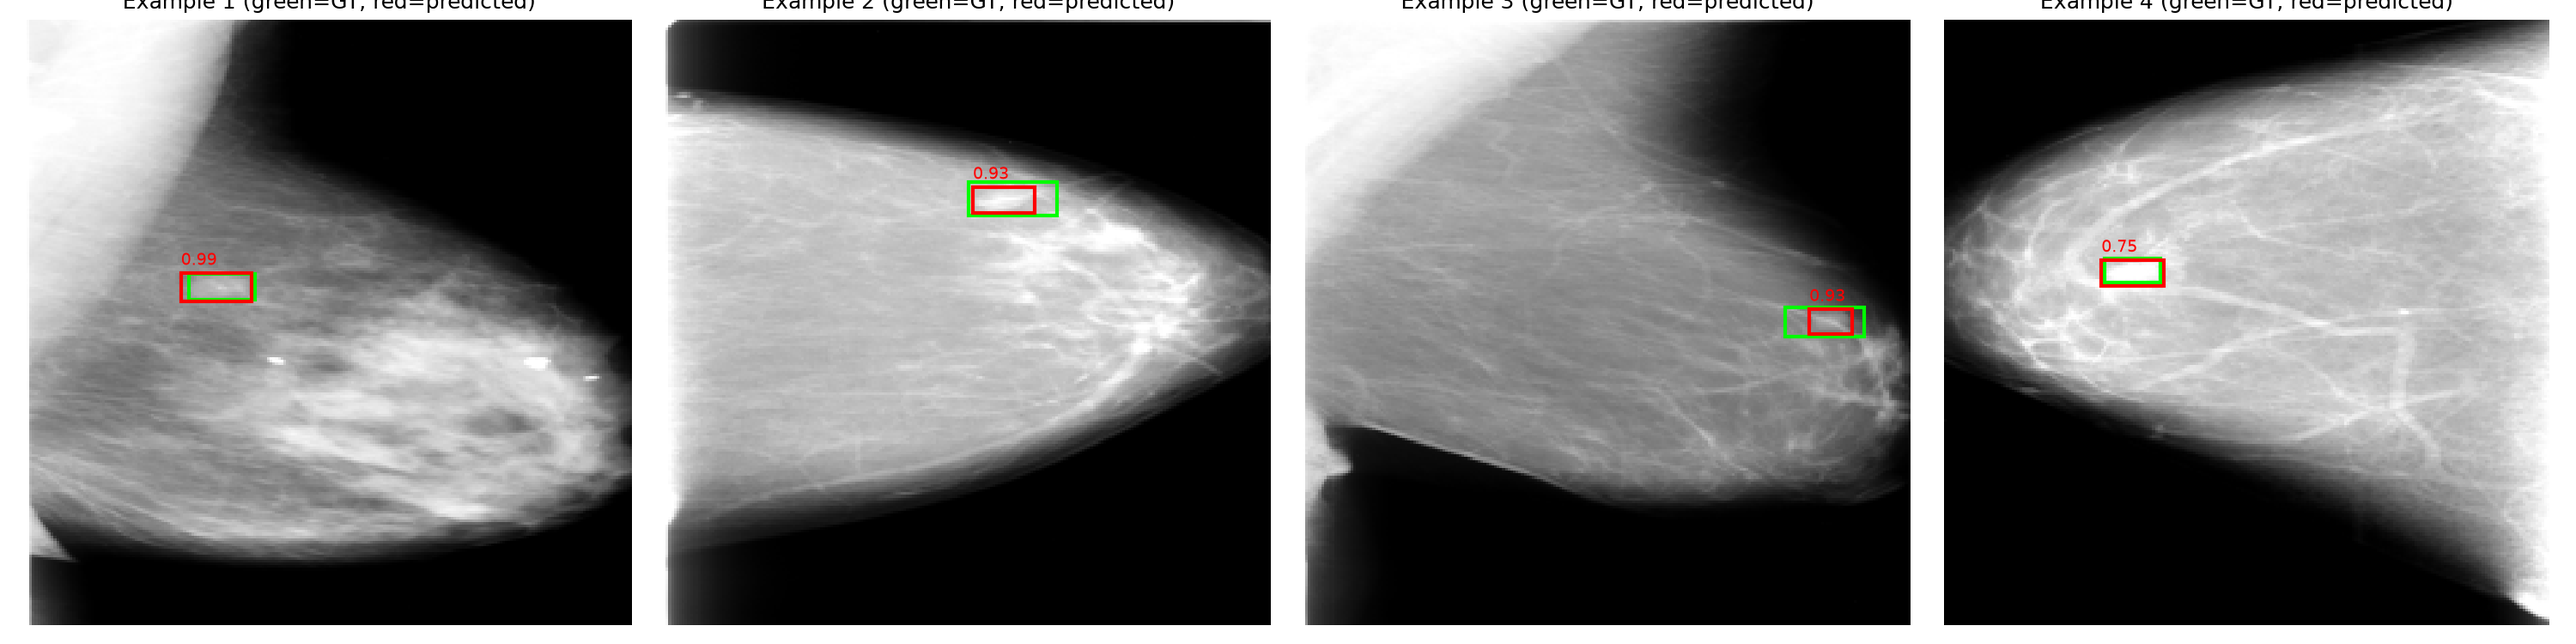
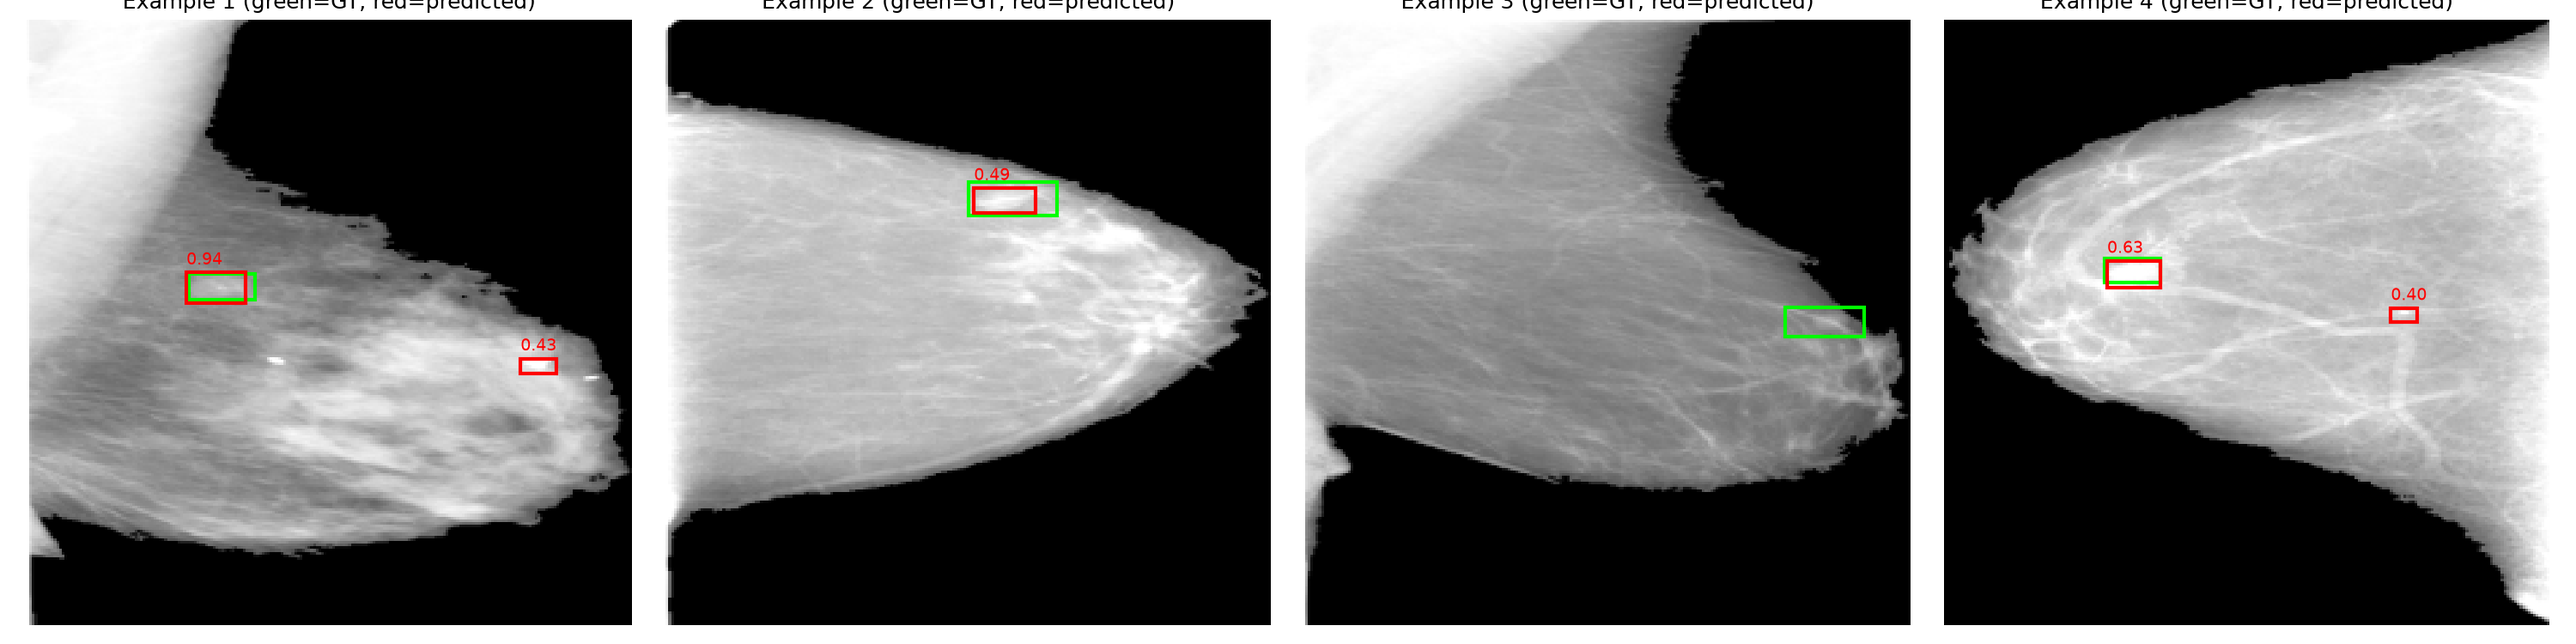
evaluate_ensemble

diff --git a/scripts/evaluate_ensemble.py b/scripts/evaluate_ensemble.py
@@ -1,0 +1,187 @@
+"""
+Evaluates an ensemble of lesion_crop + multimodal (now your two strongest
+classifiers) on the locked test set.
+
+This is a STANDALONE script, not a patch to run_phase14_final_evaluation.py,
+because the two models don't cover the same test images: multimodal scores
+all 526 test rows, but lesion_crop only covers the 512 that have a valid
+bounding box. The existing ensemble code in run_phase14_final_evaluation.py
+assumes identical row order/count (true for baseline+multimodal, since both
+use the full test_df) and would silently misalign if reused here. This
+script instead merges the two models' predictions on `image_id`, so only
+the correctly-matched, genuinely shared 512 images are combined.
+
+Threshold selection follows the same rule as everywhere else in this
+project: chosen on the VALIDATION set only, then applied once here to the
+test set.
+
+Usage:
+    python scripts/evaluate_ensemble.py \\
+        --lesion-crop-checkpoint models\\lesion_crop_resnet50_20260919_095210.pt \\
+        --multimodal-checkpoint models\\multimodal_resnet50_20260913_192536.pt \\
+        --raw-images-dir "C:\\...\\Datasets\\jpeg" \\
+        --i-understand-this-locks-the-test-set
+"""
+
+import os
+import sys
+import json
+import argparse
+
+import numpy as np
+import pandas as pd
+import torch
+from torch.utils.data import DataLoader
+
+sys.path.insert(0, os.path.join(os.path.dirname(__file__), ".."))
+sys.path.insert(0, os.path.dirname(__file__))
+
+from src.utils.config import load_config
+from src.utils.metrics import compute_classification_metrics, format_metrics_report, plot_confusion_matrix
+from src.utils.stats import select_threshold_for_target_sensitivity, roc_auc_score
+from src.data.crop_dataset import LesionCropDataset
+from src.data.multimodal_dataset import MultimodalDataset
+from src.data.tabular_preprocessing import TabularPreprocessor
+from src.models.classifier import build_classifier
+from src.models.multimodal_model import build_multimodal_model
+from run_phase14_final_evaluation import find_best_checkpoint, run_classifier_inference, bootstrap_ci
+
+
+def get_lesion_crop_predictions(checkpoint_path, bbox_df, device):
+    checkpoint = torch.load(checkpoint_path, map_location=device, weights_only=False)
+    model = build_classifier(checkpoint["config"]).to(device)
+    model.load_state_dict(checkpoint["model_state_dict"])
+    dataset = LesionCropDataset(bbox_df, checkpoint["config"])
+    # LesionCropDataset filters internally -- get the image_ids it ACTUALLY
+    # kept, in the same order, so predictions can be merged correctly.
+    image_ids = dataset.df["image_id"].values
+    loader = DataLoader(dataset, batch_size=16, shuffle=False)
+    y_true, y_prob = run_classifier_inference(model, loader, device, multimodal=False)
+    return pd.DataFrame({"image_id": image_ids, "y_true": y_true, "lesion_crop_prob": y_prob})
+
+
+def get_multimodal_predictions(checkpoint_path, df, train_df, device):
+    checkpoint = torch.load(checkpoint_path, map_location=device, weights_only=False)
+    cat_cols = checkpoint.get("tabular_categorical_cols", [])
+    num_cols = checkpoint.get("tabular_numeric_cols", [])
+    tabular_pp = TabularPreprocessor(cat_cols, num_cols)
+    tabular_pp.fit(train_df)
+    model = build_multimodal_model(checkpoint["config"], tabular_input_dim=tabular_pp.output_dim).to(device)
+    model.load_state_dict(checkpoint["model_state_dict"])
+    dataset = MultimodalDataset(df, checkpoint["config"], tabular_pp)
+    image_ids = dataset.df["image_id"].values
+    loader = DataLoader(dataset, batch_size=16, shuffle=False)
+    y_true, y_prob = run_classifier_inference(model, loader, device, multimodal=True)
+    return pd.DataFrame({"image_id": image_ids, "y_true_check": y_true, "multimodal_prob": y_prob})
+
+
+def build_ensemble_predictions(lesion_crop_ckpt, multimodal_ckpt, split_df, train_df, bbox_df, device):
+    """Returns (image_ids, y_true, ensemble_prob) merged and aligned by image_id."""
+    lc = get_lesion_crop_predictions(lesion_crop_ckpt, bbox_df, device)
+    mm = get_multimodal_predictions(multimodal_ckpt, split_df, train_df, device)
+
+    merged = lc.merge(mm, on="image_id", how="inner")
+    # Sanity check: the two datasets' own label encodings must agree on
+    # the images they share -- if not, something upstream disagrees about
+    # ground truth and averaging their probabilities would be meaningless.
+    mismatches = (merged["y_true"] != merged["y_true_check"]).sum()
+    if mismatches > 0:
+        raise ValueError(f"{mismatches} images have disagreeing ground-truth labels between "
+                          f"lesion_crop and multimodal data -- refusing to ensemble until "
+                          f"that's resolved.")
+
+    ensemble_prob = (merged["lesion_crop_prob"] + merged["multimodal_prob"]) / 2.0
+    return merged["image_id"].values, merged["y_true"].values, ensemble_prob.values
+
+
+def main():
+    parser = argparse.ArgumentParser(description=__doc__)
+    parser.add_argument("--lesion-crop-checkpoint", type=str, required=True)
+    parser.add_argument("--multimodal-checkpoint", type=str, required=True)
+    parser.add_argument("--target-sensitivity", type=float, default=0.90)
+    parser.add_argument("--n-bootstrap", type=int, default=1000)
+    parser.add_argument("--i-understand-this-locks-the-test-set", action="store_true",
+                         help="Required to run the TEST-set portion of this script.")
+    args = parser.parse_args()
+
+    config = load_config()
+    device = torch.device("cuda" if torch.cuda.is_available() else "cpu")
+    metadata_dir = config["paths"]["data_metadata"]
+    figures_dir = config["paths"]["figures_dir"]
+
+    train_df = pd.read_csv(os.path.join(metadata_dir, "train_split.csv"))
+    val_df = pd.read_csv(os.path.join(metadata_dir, "val_split.csv"))
+
+    val_bbox_df = pd.read_csv(os.path.join(metadata_dir, "bbox_metadata_val.csv"))
+    if "pathology_binary" not in val_bbox_df.columns:
+        val_bbox_df = val_bbox_df.merge(val_df[["image_id", "pathology_binary"]], on="image_id", how="left")
+
+    print("=" * 70)
+    print("STEP 1: selecting the ensemble's operating threshold on VALIDATION data")
+    print("=" * 70)
+    _, val_y_true, val_ens_prob = build_ensemble_predictions(
+        args.lesion_crop_checkpoint, args.multimodal_checkpoint, val_df, train_df, val_bbox_df, device)
+    print(f"Ensemble validation set size (images both models scored): {len(val_y_true)}")
+
+    threshold_result = select_threshold_for_target_sensitivity(val_y_true, val_ens_prob, args.target_sensitivity)
+    threshold = threshold_result["threshold"]
+    print(f"Selected threshold: {threshold:.4f}  "
+          f"(val sensitivity={threshold_result['sensitivity']:.3f}, "
+          f"val specificity={threshold_result['specificity']:.3f}, "
+          f"target_met={threshold_result['target_met']})")
+
+    thresholds_path = os.path.join(metadata_dir, "operating_thresholds.json")
+    thresholds = {}
+    if os.path.exists(thresholds_path):
+        with open(thresholds_path) as f:
+            thresholds = json.load(f)
+    thresholds["ensemble_lesion_crop_multimodal"] = {
+        "operating_threshold": threshold, "target_sensitivity": args.target_sensitivity,
+        "target_met_on_validation": threshold_result["target_met"],
+        "val_sensitivity_at_threshold": threshold_result["sensitivity"],
+        "val_specificity_at_threshold": threshold_result["specificity"],
+        "selected_on": "validation_split_only (lesion_crop + multimodal merged on image_id)",
+    }
+    with open(thresholds_path, "w") as f:
+        json.dump(thresholds, f, indent=2)
+    print(f"Saved to {thresholds_path}\n")
+
+    if not args.i_understand_this_locks_the_test_set:
+        print("Stopping here -- pass --i-understand-this-locks-the-test-set to also "
+              "evaluate on the locked test set (do this only once).")
+        return
+
+    print("=" * 70)
+    print("STEP 2: evaluating on the LOCKED TEST SET (one-time)")
+    print("=" * 70)
+    test_df = pd.read_csv(os.path.join(metadata_dir, "test_split.csv"))
+    test_bbox_df = pd.read_csv(os.path.join(metadata_dir, "bbox_metadata_test.csv"))
+    if "pathology_binary" not in test_bbox_df.columns:
+        test_bbox_df = test_bbox_df.merge(test_df[["image_id", "pathology_binary"]], on="image_id", how="left")
+
+    image_ids, y_true, y_prob = build_ensemble_predictions(
+        args.lesion_crop_checkpoint, args.multimodal_checkpoint, test_df, train_df, test_bbox_df, device)
+    print(f"Test images both models scored (intersection): {len(y_true)} "
+          f"(out of {len(test_df)} total test rows)")
+
+    metrics_default = compute_classification_metrics(y_true, y_prob, threshold=0.5)
+    metrics_tuned = compute_classification_metrics(y_true, y_prob, threshold=threshold)
+
+    print("\n--- Default 0.5 threshold (reference only) ---")
+    print(format_metrics_report(metrics_default))
+    print(f"\n--- Operating threshold {threshold:.4f} (selected on VALIDATION set) ---")
+    print(format_metrics_report(metrics_tuned))
+
+    auc_point, auc_lo, auc_hi = bootstrap_ci(y_true, y_prob, roc_auc_score, n_bootstrap=args.n_bootstrap)
+    print(f"\nROC-AUC: {auc_point:.4f}  95% CI: [{auc_lo:.4f}, {auc_hi:.4f}]")
+    print("(compare against lesion_crop alone: 0.7989, multimodal alone: 0.7557, "
+          "baseline+multimodal ensemble: 0.7598)")
+
+    cm_path = os.path.join(figures_dir, "phase14_confusion_matrix_ensemble_lesion_crop_multimodal.png")
+    plot_confusion_matrix(metrics_tuned["confusion_matrix"], cm_path,
+                           title=f"ensemble (lesion_crop+multimodal) — Test Set (threshold={threshold:.3f})")
+    print(f"Saved confusion matrix: {cm_path}")
+
+
+if __name__ == "__main__":
+    main()
